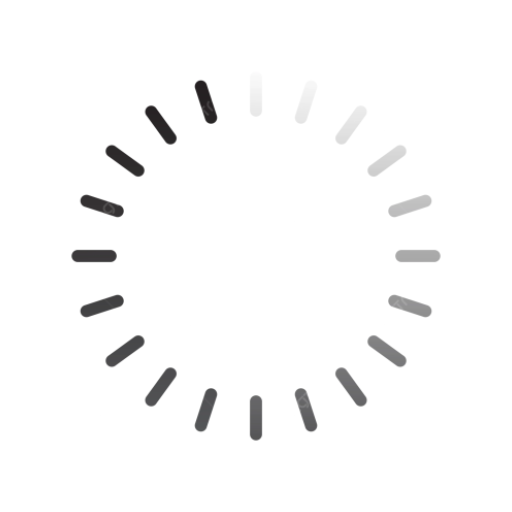
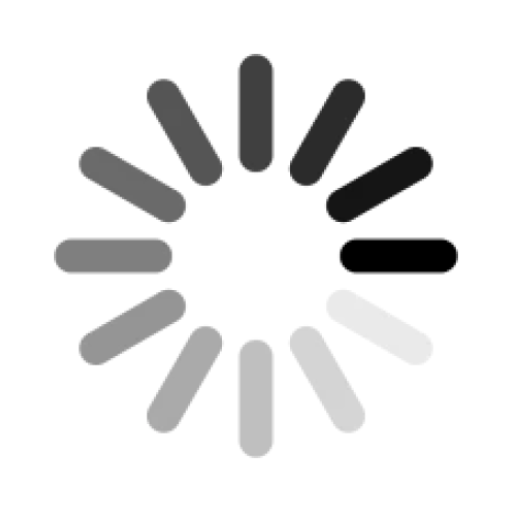
Cleared the view while downloading new weather data

diff --git a/app/src/main/java/com/example/weatherapp/MainActivity.java b/app/src/main/java/com/example/weatherapp/MainActivity.java
@@ -46,6 +46,22 @@ public class MainActivity extends AppCompatActivity {
         Picasso.setSingletonInstance(builder.build());
     }
 
+    public void setLoadingState() {
+        // Asetetaan ruudulle lataus kuvake
+        ImageView weatherStateImageView = findViewById(R.id.weatherStateImageView);
+        weatherStateImageView.setImageResource(R.mipmap.loading);
+
+        // Tyhjennetään säädata tekstikentät
+        TextView cityNameTextView = findViewById(R.id.cityNameTextView);
+        cityNameTextView.setText("");
+
+        TextView temperatureTextView = findViewById(R.id.temperatureTextView);
+        temperatureTextView.setText("");
+
+        TextView windTextView = findViewById(R.id.windTextView);
+        windTextView.setText("");
+    }
+
     public void getWeatherData(View view) {
         // Haetaan haluttu kaupunki cityEditText kentästä
         EditText cityEditText = findViewById(R.id.cityEditText);
@@ -60,9 +76,8 @@ public class MainActivity extends AppCompatActivity {
         }
         // Jos haettava kaupunki asetettu
         else {
-            // Asetetaan ruudulle lataus kuvake
-            ImageView weatherStateImageView = findViewById(R.id.weatherStateImageView);
-            weatherStateImageView.setImageResource(R.mipmap.loading);
+            // Alustetaan ruutu
+            setLoadingState();
 
             fetchWeatherDataByCity(cityName);
         }
@@ -159,9 +174,8 @@ public class MainActivity extends AppCompatActivity {
     }
 
     public void startGPS(View view) {
-        // Asetetaan ruudulle lataus kuvake
-        ImageView weatherStateImageView = findViewById(R.id.weatherStateImageView);
-        weatherStateImageView.setImageResource(R.mipmap.loading);
+        // Alustetaan ruutu
+        setLoadingState();
         // Tsekataan, onko oikeudet paikkatietoon, jos ei ole, pyyde-tään oikeudet dialogilla
         if (ActivityCompat.checkSelfPermission(this, android.Manifest.permission.ACCESS_FINE_LOCATION) != PackageManager.PERMISSION_GRANTED && ActivityCompat.checkSelfPermission(this, android.Manifest.permission.ACCESS_COARSE_LOCATION) != PackageManager.PERMISSION_GRANTED) {
             // Ei oikeuksia, joten pyydetään oikeudet
